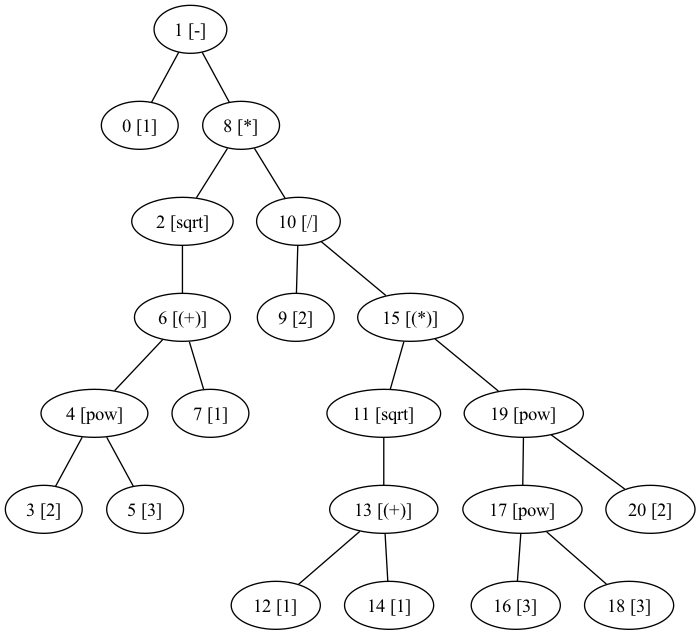
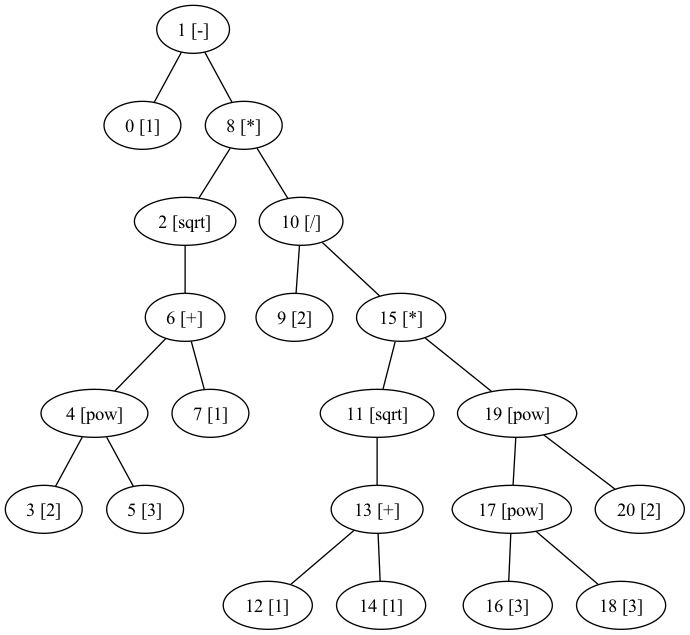
fix todo

diff --git a/syntaxtree_test.go b/syntaxtree_test.go
@@ -550,9 +550,9 @@ func TestConstructTree_CreatesCorrectGraph(t *testing.T) {
 			},
 			query: "(1+2)*3",
 			expectedGraph: `graph {
-	"1 [(+)]" -- "0 [1]"
-	"1 [(+)]" -- "2 [2]"
-	"3 [*]" -- "1 [(+)]"
+	"1 [+]" -- "0 [1]"
+	"1 [+]" -- "2 [2]"
+	"3 [*]" -- "1 [+]"
 	"3 [*]" -- "4 [3]"
 }`,
 		},
@@ -566,10 +566,10 @@ func TestConstructTree_CreatesCorrectGraph(t *testing.T) {
 			},
 			query: "(1+2)*sqrt(3)",
 			expectedGraph: `graph {
-	"1 [(+)]" -- "0 [1]"
-	"1 [(+)]" -- "2 [2]"
-	"3 [*]" -- "1 [(+)]"
-	"4 [sqrt]" -- "5 [(3)]"
+	"1 [+]" -- "0 [1]"
+	"1 [+]" -- "2 [2]"
+	"3 [*]" -- "1 [+]"
+	"4 [sqrt]" -- "5 [3]"
 	"3 [*]" -- "4 [sqrt]"
 }`,
 		},
@@ -583,15 +583,15 @@ func TestConstructTree_CreatesCorrectGraph(t *testing.T) {
 			},
 			query: "(1+2)*sqrt(pow(2,pow(3,sqrt(3))))",
 			expectedGraph: `graph {
-	"1 [(+)]" -- "0 [1]"
-	"1 [(+)]" -- "2 [2]"
-	"3 [*]" -- "1 [(+)]"
+	"1 [+]" -- "0 [1]"
+	"1 [+]" -- "2 [2]"
+	"3 [*]" -- "1 [+]"
 	"6 [pow]" -- "5 [2]"
 	"6 [pow]" -- "7 [3]"
-	"8 [(pow)]" -- "6 [pow]"
-	"9 [sqrt]" -- "10 [(3)]"
-	"8 [(pow)]" -- "9 [sqrt]"
-	"4 [sqrt]" -- "8 [(pow)]"
+	"8 [pow]" -- "6 [pow]"
+	"9 [sqrt]" -- "10 [3]"
+	"8 [pow]" -- "9 [sqrt]"
+	"4 [sqrt]" -- "8 [pow]"
 	"3 [*]" -- "4 [sqrt]"
 }`,
 		},
@@ -608,21 +608,21 @@ func TestConstructTree_CreatesCorrectGraph(t *testing.T) {
 	"1 [-]" -- "0 [1]"
 	"4 [pow]" -- "3 [2]"
 	"4 [pow]" -- "5 [3]"
-	"6 [(+)]" -- "4 [pow]"
-	"6 [(+)]" -- "7 [1]"
-	"2 [sqrt]" -- "6 [(+)]"
+	"6 [+]" -- "4 [pow]"
+	"6 [+]" -- "7 [1]"
+	"2 [sqrt]" -- "6 [+]"
 	"8 [*]" -- "2 [sqrt]"
 	"10 [/]" -- "9 [2]"
-	"13 [(+)]" -- "12 [1]"
-	"13 [(+)]" -- "14 [1]"
-	"11 [sqrt]" -- "13 [(+)]"
-	"15 [(*)]" -- "11 [sqrt]"
+	"13 [+]" -- "12 [1]"
+	"13 [+]" -- "14 [1]"
+	"11 [sqrt]" -- "13 [+]"
+	"15 [*]" -- "11 [sqrt]"
 	"17 [pow]" -- "16 [3]"
 	"17 [pow]" -- "18 [3]"
 	"19 [pow]" -- "17 [pow]"
 	"19 [pow]" -- "20 [2]"
-	"15 [(*)]" -- "19 [pow]"
-	"10 [/]" -- "15 [(*)]"
+	"15 [*]" -- "19 [pow]"
+	"10 [/]" -- "15 [*]"
 	"8 [*]" -- "10 [/]"
 	"1 [-]" -- "8 [*]"
 }`,
@@ -652,14 +652,14 @@ func TestConstructTree_CreatesCorrectGraph(t *testing.T) {
 	"15 [contains]" -- "13 [concat]"
 	"15 [contains]" -- "16 ['Smith']"
 	"11 [or]" -- "15 [contains]"
-	"17 [(or)]" -- "11 [or]"
-	"20 [(concat)]" -- "19 [name]"
-	"20 [(concat)]" -- "21 [lastname]"
-	"18 [length]" -- "20 [(concat)]"
+	"17 [or]" -- "11 [or]"
+	"20 [concat]" -- "19 [name]"
+	"20 [concat]" -- "21 [lastname]"
+	"18 [length]" -- "20 [concat]"
 	"22 [eq]" -- "18 [length]"
 	"22 [eq]" -- "23 [10]"
-	"17 [(or)]" -- "22 [eq]"
-	"3 [and]" -- "17 [(or)]"
+	"17 [or]" -- "22 [eq]"
+	"3 [and]" -- "17 [or]"
 }`,
 		},
 	}

diff --git a/syntaxtree.go b/syntaxtree.go
@@ -87,6 +87,7 @@ type Node struct {
 	Type       NodeType
 	LeftChild  *Node
 	RightChild *Node
+	IsGroup    bool
 }
 
 func (t *SyntaxTree) ConstructTree(query string) error {
@@ -233,8 +234,7 @@ func createTree(t *SyntaxTree, parsedQuery string, startId int) (*Node, int) {
 			id = newId
 			previousNode = currentNode
 			currentNode = subTree
-			// TODO: find a better way to add the subtree (not with the '()' around the root)'
-			currentNode.Value = fmt.Sprintf("(%s)", currentNode.Value)
+			currentNode.IsGroup = true
 			currentNode.Parent = previousNode
 			if previousNode != nil {
 				if previousNode.LeftChild == nil {
@@ -289,7 +289,7 @@ func createTree(t *SyntaxTree, parsedQuery string, startId int) (*Node, int) {
 			for previousNode.Parent != nil {
 				// if the previous node parent is an operator and its precedence is lower (higher index in array) then the current operator
 				// we can stop the loop
-				if previousNode.Parent.Type == Operator && slices.Index(t.OperatorPrecedence, previousNode.Parent.Value) > slices.Index(t.OperatorPrecedence, parsedQueryPart) {
+				if previousNode.Parent.Type == Operator && slices.Index(t.OperatorPrecedence, previousNode.Parent.Value) > slices.Index(t.OperatorPrecedence, parsedQueryPart) && !previousNode.Parent.IsGroup {
 					break
 				}
 				previousNode = previousNode.Parent
